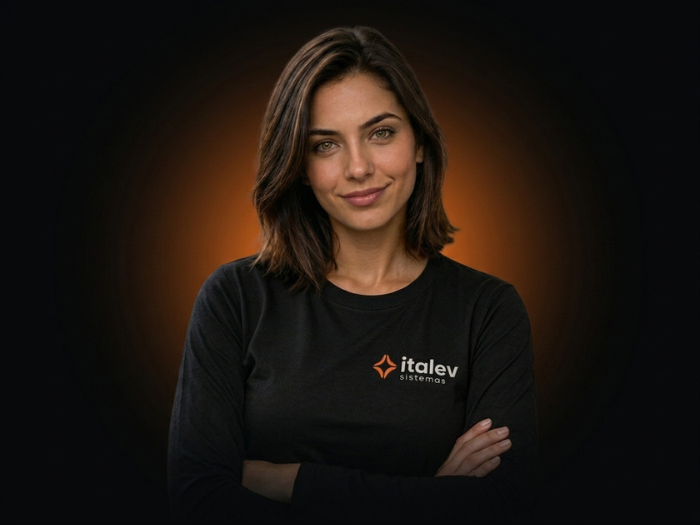
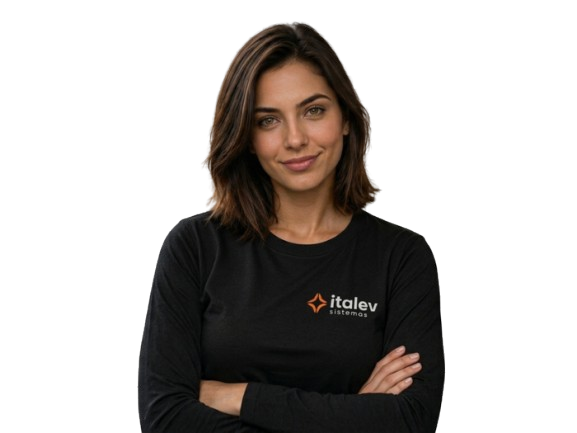
Atualiza imagens e restaura glow laranja na hero

diff --git a/app/page.tsx b/app/page.tsx
@@ -225,6 +225,13 @@ export default function HomePage() {
 
               {/* ── Coluna direita: imagem ── */}
               <div className="relative flex items-center justify-center md:justify-end">
+                {/* Glow laranja — atrás da Gina */}
+                <div className="pointer-events-none absolute inset-0 flex items-center justify-center" aria-hidden="true">
+                  <div
+                    className="h-[620px] w-[520px] rounded-full opacity-35"
+                    style={{ background: 'radial-gradient(ellipse, #FF5A00 0%, transparent 68%)', filter: 'blur(72px)' }}
+                  />
+                </div>
 
                 {/* Desktop — gina-700x525.png */}
                 <Image